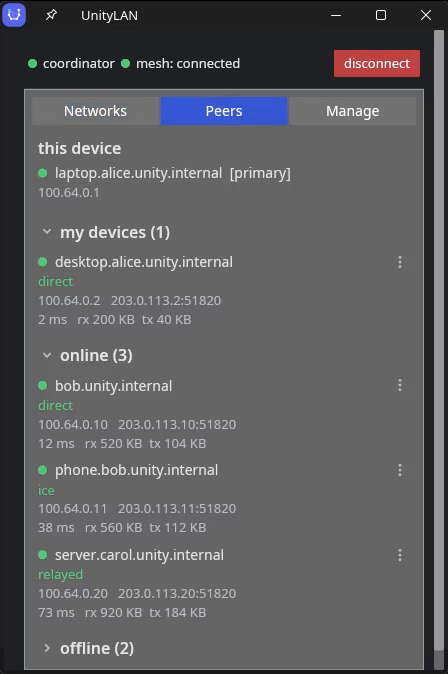
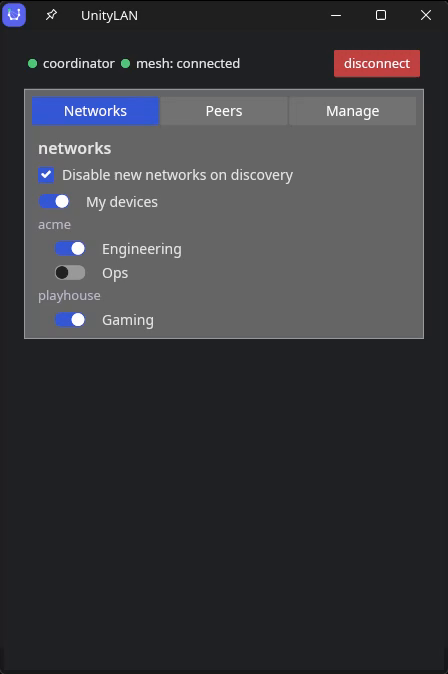
feat(gui): group Networks tab by guild to match peer hovers
The peer hover already lists shared networks grouped by community
(guild): "acme: Engineering · playhouse: Gaming". The Networks tab
listed each network flat as "Engineering @ acme", so the same network
read two different ways across the two surfaces.

Group the Networks tab the same way: a guild heading with its role
togglers indented beneath, first-seen order. "My devices" stays flush
at the top (guildless), mirroring the hover's bare rendering of it. The
own-device hover now says "one of my devices" instead of dumping every
network the owner is in.

Update the fake-engine demo fixtures to span two guilds so the grouping
is visible, regenerate the README assets, fix the networks.png still
mark in readme-demo.sh (it was landing on the Peers tab), and note in
CLAUDE.md that GUI changes require regenerating the README images.

diff --git a/crates/gui/src/main.rs b/crates/gui/src/main.rs
@@ -1282,7 +1282,15 @@ impl App {
         // Hostname carries two hovers' worth of context without cluttering the row: the dot shows WG
         // liveness (last handshake), the name shows which shared networks the peer is reachable over
         // (the ACL intersection). The kebab at the end opens the action menu.
-        let net_hover = if p.networks.is_empty() {
+        // Own devices carry every network the owner is in (they peer regardless of ACL), so listing
+        // them is noise — just say it's one of ours.
+        let is_own = p
+            .networks
+            .iter()
+            .any(|n| n.name == common::control::OWN_DEVICES_LABEL);
+        let net_hover = if is_own {
+            "one of my devices".to_string()
+        } else if p.networks.is_empty() {
             "no shared networks".to_string()
         } else {
             format!(
@@ -1457,31 +1465,53 @@ impl App {
         if nets.is_empty() {
             list = list.push(muted("No other networks discovered yet."));
         } else {
+            // Group by guild the same way the peer hover does (`shared_networks_by_community`), so a
+            // network reads the same in both places: a guild heading with its roles beneath. Guilds
+            // and roles keep first-seen (coordinator snapshot) order.
+            let mut groups: Vec<(&str, Vec<&common::api::NetworkStatus>)> = Vec::new();
             for n in nets {
-                let title = if n.guild_name.is_empty() {
-                    n.name.clone()
+                match groups.iter_mut().find(|(g, _)| *g == n.guild_name.as_str()) {
+                    Some((_, v)) => v.push(n),
+                    None => groups.push((n.guild_name.as_str(), vec![n])),
+                }
+            }
+            for (guild, members) in groups {
+                let mut roles = Column::new().spacing(6);
+                for n in members {
+                    // A switch (not a button): flipping it applies immediately, and its position
+                    // shows the current state — no separate on/off label needed. Switch on the left
+                    // so the controls line up in one column with the policy checkbox above.
+                    let (guild_id, role_id) = (n.guild_id, n.role_id);
+                    roles = roles.push(
+                        row![
+                            toggler(n.enabled)
+                                .width(Length::Shrink)
+                                .on_toggle(move |enabled| {
+                                    Message::ToggleNetwork {
+                                        guild_id,
+                                        role_id,
+                                        enabled,
+                                    }
+                                }),
+                            text(n.name.clone()).size(14).width(Length::Fill),
+                        ]
+                        .spacing(8)
+                        .align_y(Vertical::Center),
+                    );
+                }
+                // A guild heading over its indented roles; guildless rows (shouldn't occur for real
+                // networks) sit flush like the "My devices" row above.
+                if guild.is_empty() {
+                    list = list.push(roles);
                 } else {
-                    format!("{} @ {}", n.name, n.guild_name)
-                };
-                // A switch (not a button): flipping it applies immediately, and its position shows
-                // the current state — no separate on/off label needed. Switch on the left so the
-                // interactive controls line up in one column with the policy checkbox above.
-                let (guild_id, role_id) = (n.guild_id, n.role_id);
-                let r = row![
-                    toggler(n.enabled)
-                        .width(Length::Shrink)
-                        .on_toggle(move |enabled| {
-                            Message::ToggleNetwork {
-                                guild_id,
-                                role_id,
-                                enabled,
-                            }
-                        }),
-                    text(title).size(14).width(Length::Fill),
-                ]
-                .spacing(8)
-                .align_y(Vertical::Center);
-                list = list.push(r);
+                    list = list.push(
+                        column![
+                            muted(guild.to_string()),
+                            roles.padding(iced::padding::left(16))
+                        ]
+                        .spacing(6),
+                    );
+                }
             }
         }
         column![header("networks"), policy, list].spacing(8).into()

diff --git a/crates/gui/examples/fake-engine.rs b/crates/gui/examples/fake-engine.rs
@@ -282,17 +282,19 @@ fn fixture_peers() -> Vec<PeerStatus> {
 }
 
 fn fixture_networks() -> Vec<NetworkStatus> {
-    let n = |role_id: u64, name: &str, enabled: bool| NetworkStatus {
-        guild_id: 900_100,
+    let n = |guild_id: u64, guild: &str, role_id: u64, name: &str, enabled: bool| NetworkStatus {
+        guild_id,
         role_id,
         name: name.into(),
-        guild_name: "Acme".into(),
+        guild_name: guild.into(),
         enabled,
     };
+    // Two guilds so the Networks tab shows its guild grouping — mirroring the communities the peer
+    // hovers list (`acme` / `playhouse`), so a network reads the same in both places.
     vec![
-        n(7001, "Engineering", true),
-        n(7002, "Gaming", true),
-        n(7003, "Ops", false),
+        n(900_100, "acme", 7001, "Engineering", true),
+        n(900_100, "acme", 7003, "Ops", false),
+        n(900_200, "playhouse", 7002, "Gaming", true),
     ]
 }
 

diff --git a/CLAUDE.md b/CLAUDE.md
@@ -62,6 +62,12 @@ Four crates (`crates/*`), two planes:
 | `engine` | `unitylan-engine` | **data plane**, privileged daemon: WireGuard, host firewall, DNS resolver, control socket |
 | `gui` | `unitylan-gui` | unprivileged iced desktop app, drives the engine over its control socket |
 
+**GUI screenshots are docs.** When a GUI change alters what the app looks like, regenerate the
+README images — `assets/demo.gif`, `assets/peers.png`, `assets/networks.png` — with
+`scripts/readme-demo.sh` (fake-engine canned fixtures + scripted tour + screencast). Keep the
+fixtures in `crates/gui/examples/fake-engine.rs` representative of the feature being shown, or the
+regenerated stills won't demonstrate it.
+
 **Trust model.** A *network* is a Discord role an admin registered (`/unitylan network add`) — an
 ACL group, not a subnet. Networks may overlap; a device has **one IP and one tunnel per co-device**
 regardless of how many networks they share. The coordinator holds **one Ed25519 signing key per